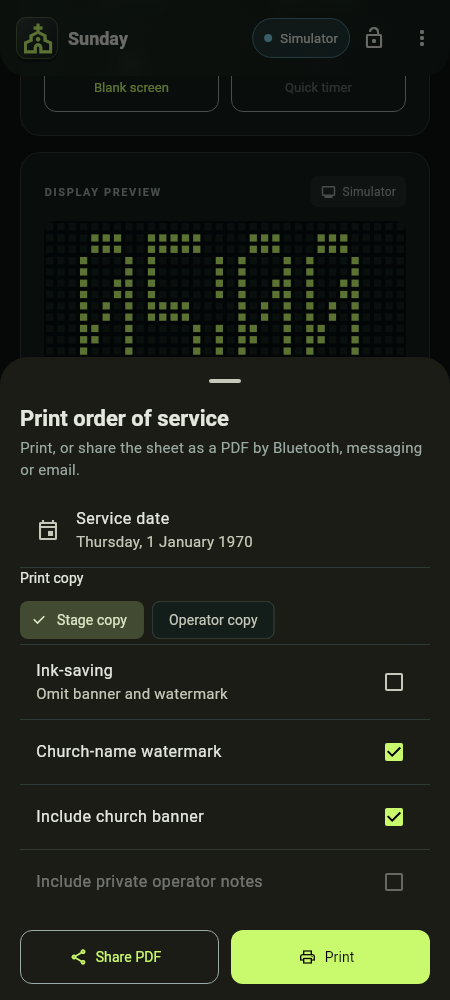
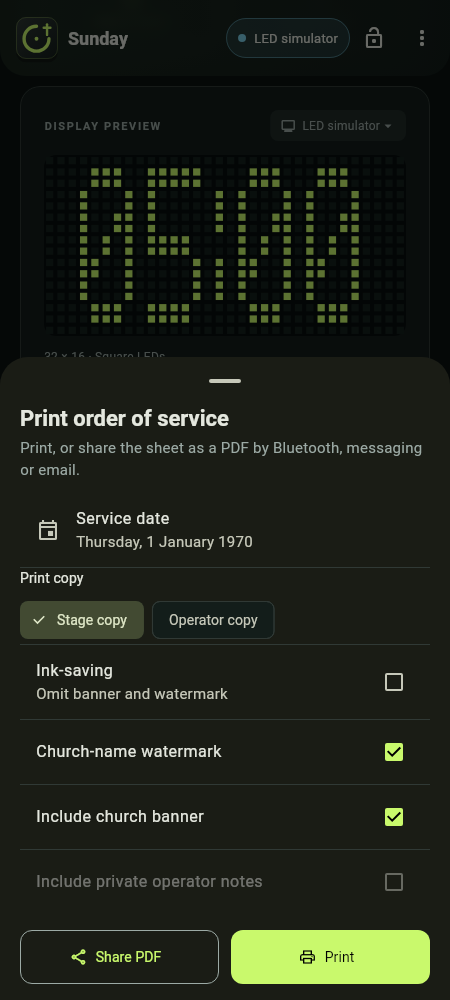
Add screenshots for the Windows app and refresh the phone ones
Thirty-nine example previews from the app's 0.34.0 fixtures: the desktop
layouts, the Live home, second screen, full screen, the simulator choice,
keyboard shortcuts, Commands, the clicker test, cues on screens, the
calendar date filter and the mini timer. Every file is compressed without
loss, and the provenance table lists where each came from.

diff --git a/site/assets/images/README.md b/site/assets/images/README.md
@@ -1,6 +1,10 @@
 # Screenshot provenance
 
-These PNG files are unchanged copies of reviewed automated app previews from Church Service Timer's test/goldens directory; the set now comes from the 0.18.0–0.30.0 previews, and every file below was refreshed from the 0.30.0 goldens. They illustrate example states and do not show real phone sessions. No live pairing code/QR, revealed password, raw device log, or user-supplied photograph is included.
+These PNG files come from reviewed automated app previews in Church Service Timer's test/goldens directory. The whole set was refreshed for the 0.34.0 handbook from the previews on the app's main branch. They illustrate example states with sample data and do not show real phone or PC sessions. No live pairing code or QR, revealed password, raw device log, or user-supplied photograph is included.
+
+Every file was re-compressed without loss (oxipng), so the pixels match the preview. Three files differ from a plain copy, as noted in the second table.
+
+## Phone and tablet
 
 | Public filename | Original fixture |
 | --- | --- |
@@ -21,5 +25,40 @@ These PNG files are unchanged copies of reviewed automated app previews from Chu
 | church-profile.png | church-profile-custom-phone.png |
 | reports.png | report-list-phone.png |
 | screens-devices.png | settings-screens-devices.png |
+
+## PC (wide window) and stage
+
+| Public filename | Original fixture |
+| --- | --- |
+| desktop-mission-control.png | desktop-mission-control-1080.png |
+| desktop-mission-control-large.png | desktop-mission-control-1440.png |
+| desktop-live-home.png | desktop-standing-by-1080.png |
+| desktop-three-panes.png | desktop-three-panes-1080-paper.png |
+| desktop-dial.png | desktop-dial-1080.png |
+| desktop-keys.png | desktop-keys-1080.png |
+| desktop-classic.png | desktop-classic-1440.png, scaled from 2560 × 1440 to 1920 × 1080 |
+| desktop-layout-settings.png | desktop-layout-settings.png |
+| second-screen-live.png | desktop-second-screen-live.png |
+| second-screen-settings.png | desktop-screens-devices.png |
+| full-screen-confirm.png | desktop-host-full-screen-confirm.png |
+| stage-simulator.png | desktop-stage-simulator-live.png |
+| shortcuts.png | desktop-shortcuts-sheet.png |
+| commands.png | command-palette.png |
+| clicker-test.png | desktop-clicker-test.png |
+| cue-on-screens.png | desktop-cue-editor-screens.png |
+| cue-banner.png | stage-cue-amber-banner.png |
+| stage-cues-desktop.png | desktop-settings-stage-cues-stage-screen.png |
+| warnings-desktop.png | desktop-settings-warnings.png |
+| programs-desktop.png | desktop-programs.png |
+| reports-dates.png | desktop-date-range.png |
+| reports-desktop.png | Rendered for the handbook by the fixture behind desktop-date-range.png (the same sample reports, dated 2026), without the calendar open |
+| mini-timer.png | Rendered for the handbook by the fixture behind mini-timer.png, at twice the pixel density (760 × 300) |
+
+## Adding or replacing an image
+
+- Copy the preview, or render it from the app's own test fixtures. Do not edit the pixels.
+- Look at it before publishing: no pairing code, QR, password, address of a real network or real person's name.
+- Keep it PNG (the site's check allows nothing else), compress it without loss, and keep wide shots at 1920 pixels across unless the larger size is the point.
+- Give it alt text that says what the screen shows; the site uses the same words as the caption.
 
 Future photo placeholders: replace only with an authorized, credential-free photograph of the church's actual operator desk or stage screen. Keep captions explicit about examples versus real equipment.
